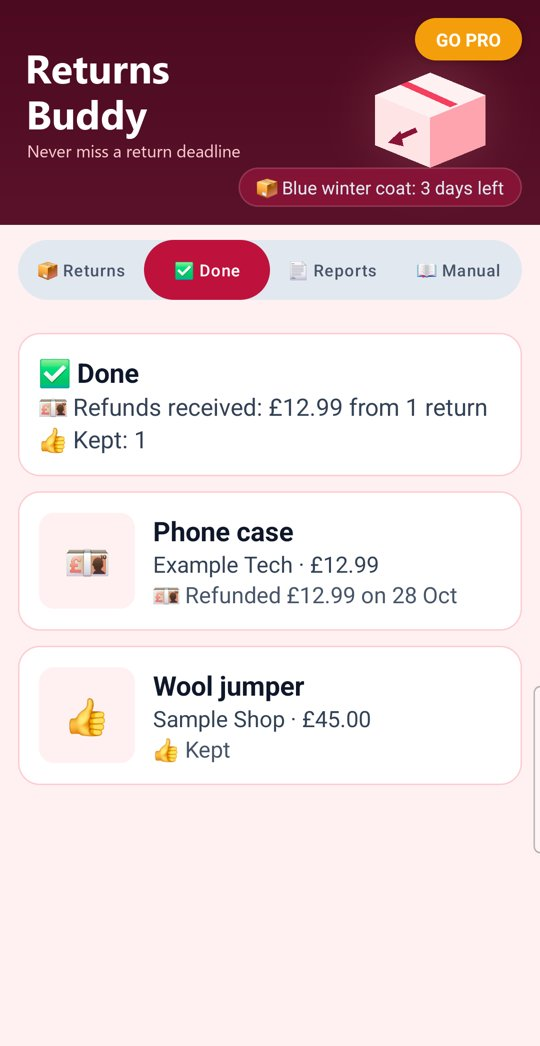
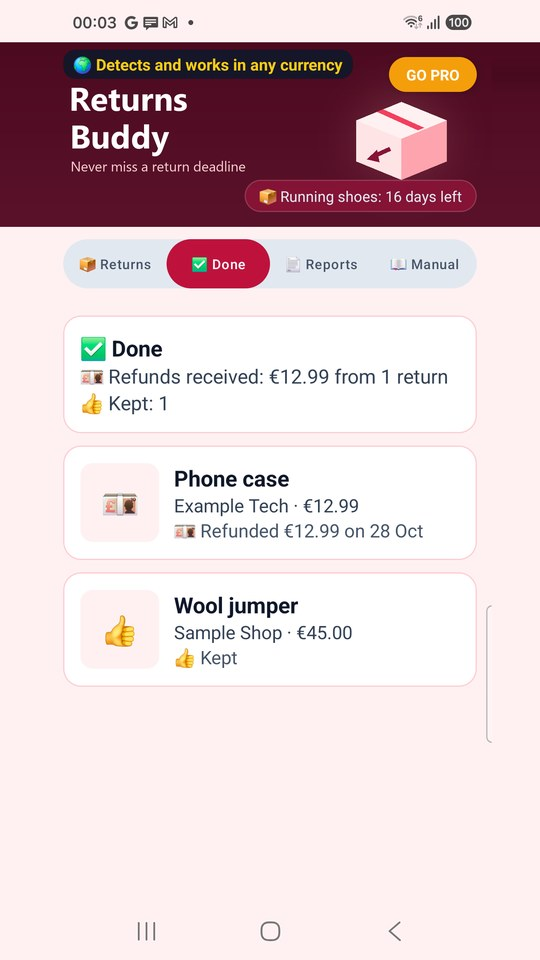
Returns Buddy 1.4 (Build 5): any currency, manual word for word, new pictures

diff --git a/returns-buddy/index.html b/returns-buddy/index.html
@@ -46,7 +46,7 @@
 
         <h3>📦 Adding a return</h3>
         <p>On 📦 Returns, tap ＋ Add something to return. Type what it is and, if you like, the shop, the price and the order number.</p>
-        <p>Set the day it was bought or delivered, then the return deadline: tap 14, 30 or 60 days, or pick the date. Check the shop's returns policy for the right number of days. In the UK you can usually cancel most online orders within 14 days of delivery, and many shops give longer.</p>
+        <p>Set the day it was bought or delivered, then the return deadline: tap 14, 30 or 60 days, or pick the date. Check the shop's returns policy for the right number of days. In the UK and the EU you can usually cancel most online orders within 14 days of delivery; in other countries it depends on the shop's own policy, and many shops give longer.</p>
         <p>Then take a photo of the receipt or the item, or choose one you already took.</p>
 
         <h3>📷 Photos as proof</h3>
@@ -66,8 +66,11 @@
         <ul>
             <li>📄 Proof PDF (free): tap a return, then 📄 Proof PDF. It has all the details and every photo, ready to email to the shop.</li>
             <li>📄 All-returns PDF (Pro): every return with its details and photos.</li>
-            <li>📊 Spreadsheet (Pro): every return as a CSV for Excel or Google Sheets.</li>
+            <li>📊 Spreadsheet (Pro): every return as a CSV for Excel or Google Sheets, with the currency in its own column.</li>
         </ul>
+
+        <h3>🌍 Any currency</h3>
+        <p>Prices and refunds are in your phone's currency, written the way your phone writes money (for example £39.99, 39,99 € or ¥1,500). To use another currency, tap Change the currency in 📄 Reports. The app never converts amounts: the numbers you typed stay as they are.</p>
 
         <h3>⭐ Free and Pro</h3>
         <p>Free: up to 5 returns on the go at once (finished ones don't count), reminders, photos, refund tracking and the proof PDF for each return. No ads.</p>
@@ -79,7 +82,7 @@
         <p>Google Play handles the Pro purchase.</p>
 
         <h3>About</h3>
-        <p>Returns Buddy v1.3 (Build 4)</p>
+        <p>Returns Buddy v1.4 (Build 5)</p>
         <p>Publisher: AppStack Studio</p>
 
         <h3>⚡ WHY RETURNS BUDDY</h3>
@@ -87,6 +90,7 @@
             <tr><th>Question</th><th>Many returns apps</th><th>Returns Buddy</th></tr>
             <tr><td>Deadlines</td><td>Often missed in emails</td><td><strong>Every return deadline in one list, with reminders 3 days and 1 day before and on the day</strong></td></tr>
             <tr><td>Refunds</td><td>Easy to forget</td><td><strong>A nudge 14 and 30 days after sending something back with no refund yet</strong></td></tr>
+            <tr><td>Currency</td><td>Often one currency only</td><td><strong>Any currency: your phone's, or one you pick, written the way your phone writes money</strong></td></tr>
             <tr><td>Price</td><td>Free with ads or a subscription</td><td><strong>Free for 5 returns at once; Pro is one payment for life (no subscription)</strong></td></tr>
         </table>
         <ul>
@@ -99,6 +103,7 @@
         <ul>
             <li>The app doesn't connect to shops or couriers: the details are the ones you type in.</li>
             <li>Check each shop's returns policy for the right number of days.</li>
+            <li>Amounts are never converted between currencies: the numbers you type stay as they are.</li>
             <li>Your returns and photos are kept only on your phone.</li>
         </ul>
     </div>
@@ -106,10 +111,10 @@
     <div class="screenshot-grid">
         <div class="screenshot-card"><img src="returns-buddy-deadlines.jpg" alt="Returns with deadlines and days left"><p><strong>1. Deadlines</strong><br>Every return with its deadline and days left.</p></div>
         <div class="screenshot-card"><img src="returns-buddy-refunds.jpg" alt="A return waiting for a refund"><p><strong>2. Waiting for refund</strong><br>What you sent back and how long you've waited.</p></div>
-        <div class="screenshot-card"><img src="returns-buddy-done.jpg" alt="Refunded and kept items with totals"><p><strong>3. Done</strong><br>Refunds received, and any that were less than you paid.</p></div>
-        <div class="screenshot-card"><img src="returns-buddy-reports.jpg" alt="PDF, spreadsheet and reminders"><p><strong>4. Reports</strong><br>All-returns PDF, spreadsheet and the reminder switch.</p></div>
+        <div class="screenshot-card"><img src="returns-buddy-done.jpg" alt="Refunded and kept items with totals"><p><strong>3. Done</strong><br>Refunds received, here in euros: any currency, never converted.</p></div>
+        <div class="screenshot-card"><img src="returns-buddy-reports.jpg" alt="PDF, spreadsheet and reminders"><p><strong>4. Reports</strong><br>All-returns PDF, spreadsheet, 🌍 currency and the reminder switch.</p></div>
     </div>
-    <p style="font-size: 13px; color: #94A3B8;">Screenshots: Returns Buddy 1.0 on a Samsung Galaxy S24, with sample returns, made-up shop names and drawn sample photos.</p>
+    <p style="font-size: 13px; color: #94A3B8;">Screenshots: Returns Buddy 1.4 on a Samsung Galaxy S24, with sample returns, made-up shop names and drawn sample photos.</p>
     <div class="footer">
         &copy; 2026 AppStack Studio. All rights reserved. | Support: <a href="mailto:appstack1966@gmail.com">appstack1966@gmail.com</a>
     </div>

diff --git a/returns-buddy/support.html b/returns-buddy/support.html
@@ -32,7 +32,7 @@
             <h2>Returns Buddy — Questions &amp; Answers</h2>
 
             <h3>1. How many days do I have to return something?</h3>
-            <p>It depends on the shop: check its returns policy. In the UK you can usually cancel most online orders within 14 days of delivery, and many shops give 30 days or more. Tap 14, 30 or 60 days, or pick the exact date.</p>
+            <p>It depends on the shop: check its returns policy. In the UK and the EU you can usually cancel most online orders within 14 days of delivery; in other countries it depends on the shop's own policy. Many shops give 30 days or more. Tap 14, 30 or 60 days, or pick the exact date.</p>
 
             <h3>2. When will I be reminded?</h3>
             <p>At about 09:00, 3 days and 1 day before the deadline, and on the day. After you send something back, 14 and 30 days later if no refund has been marked. Check that reminders are on in 📄 Reports. If Android blocks the app's notifications, 📄 Reports shows 🔕 Notifications are blocked: tap it to allow them.</p>
@@ -49,7 +49,10 @@
             <h3>6. Does it read my emails or track parcels?</h3>
             <p>No. The app doesn't connect to email, shops or couriers. The details are the ones you type in.</p>
 
-            <h3>7. I bought Pro on another phone. How do I get it back?</h3>
+            <h3>7. Can I use another currency?</h3>
+            <p>Yes. Prices and refunds use your phone's currency, written the way your phone writes money. To use another one, tap Change the currency in 📄 Reports. The app never converts amounts: the numbers you typed stay as they are.</p>
+
+            <h3>8. I bought Pro on another phone. How do I get it back?</h3>
             <p>Use the same Google account, tap GO PRO at the top, then Restore purchase.</p>
         </div>
 

diff --git a/returns-buddy/privacy.html b/returns-buddy/privacy.html
@@ -48,7 +48,7 @@
             <h2>Returns Buddy — Privacy Policy</h2>
             <p class="meta">
                 <strong>Package Name:</strong> <code>com.appstackstudio.returnsbuddy</code> |
-                <strong>Effective Date:</strong> 19 November 2026 |
+                <strong>Effective Date:</strong> 27 November 2026 |
                 <strong>Developer:</strong> AppStack Studio
             </p>
 
@@ -58,7 +58,7 @@
             <ul>
                 <li><strong>Returns:</strong> what it is, the shop, the price, the order number, the dates (bought or delivered, return by, sent back, refunded), the tracking number or reference, the refund amount and a note.</li>
                 <li><strong>Photos:</strong> the photos you take or choose (stored as smaller copies, at most 1600 pixels across), with what each shows and when it was added.</li>
-                <li><strong>Settings:</strong> whether reminders are on, which reminders were already shown, whether the welcome guide was shown and whether Pro is unlocked.</li>
+                <li><strong>Settings:</strong> whether reminders are on, which reminders were already shown, your currency if you chose one, whether the welcome guide was shown and whether Pro is unlocked.</li>
             </ul>
             <h3>3. Photos</h3>
             <p>Photos come from your phone's own camera app or from Android's photo picker, which only gives the app the picture you choose. The app has no camera or storage permission and never reads your other photos.</p>
